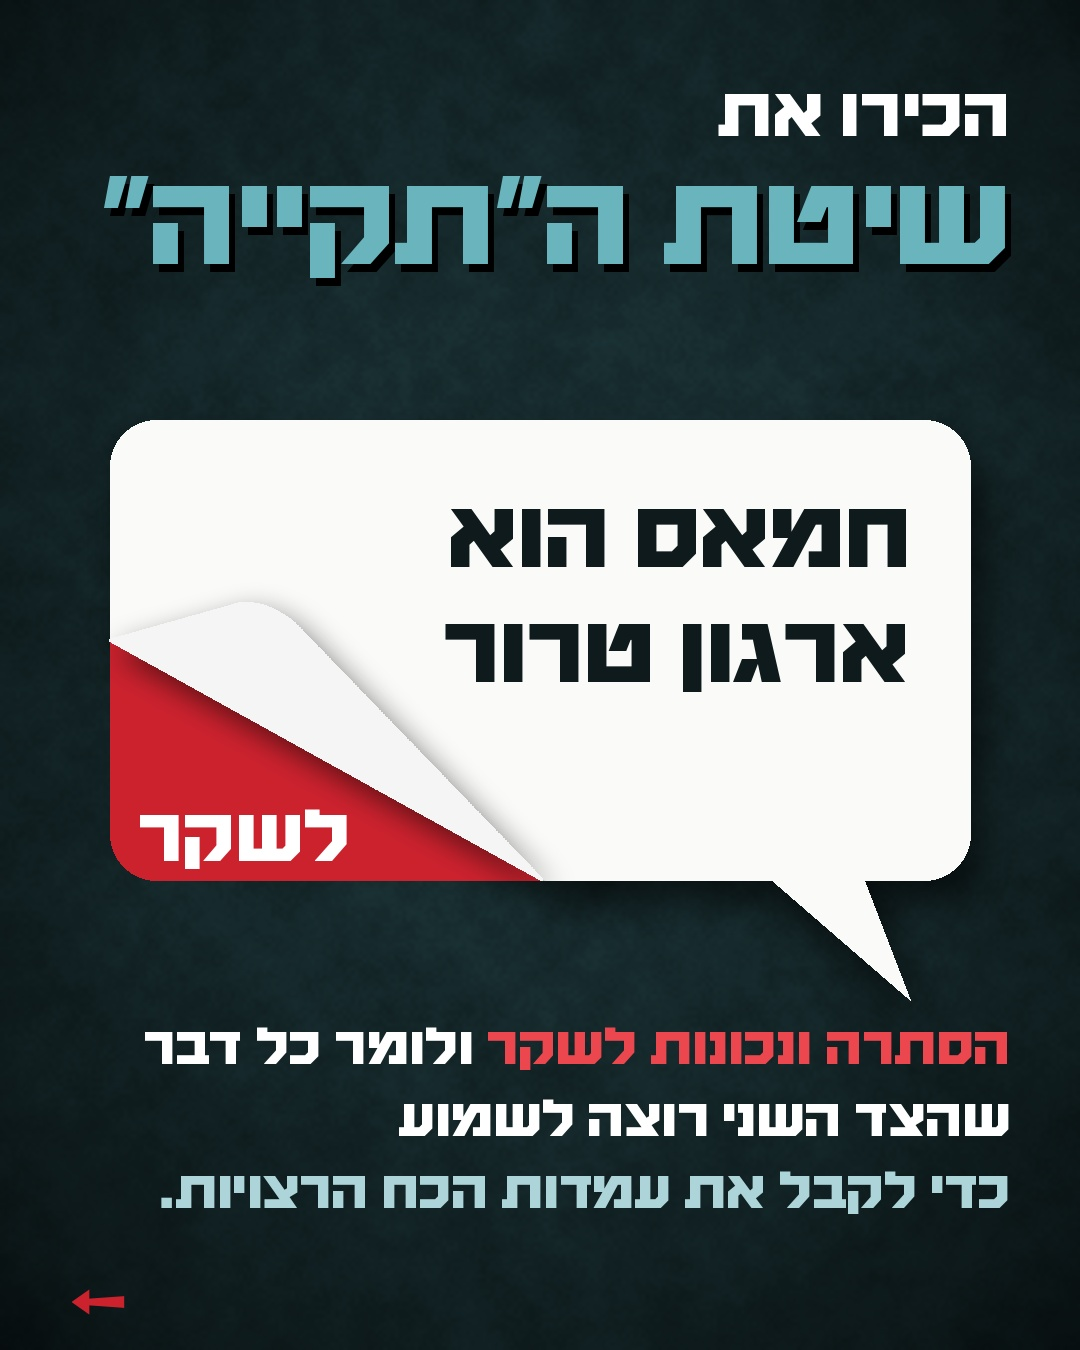
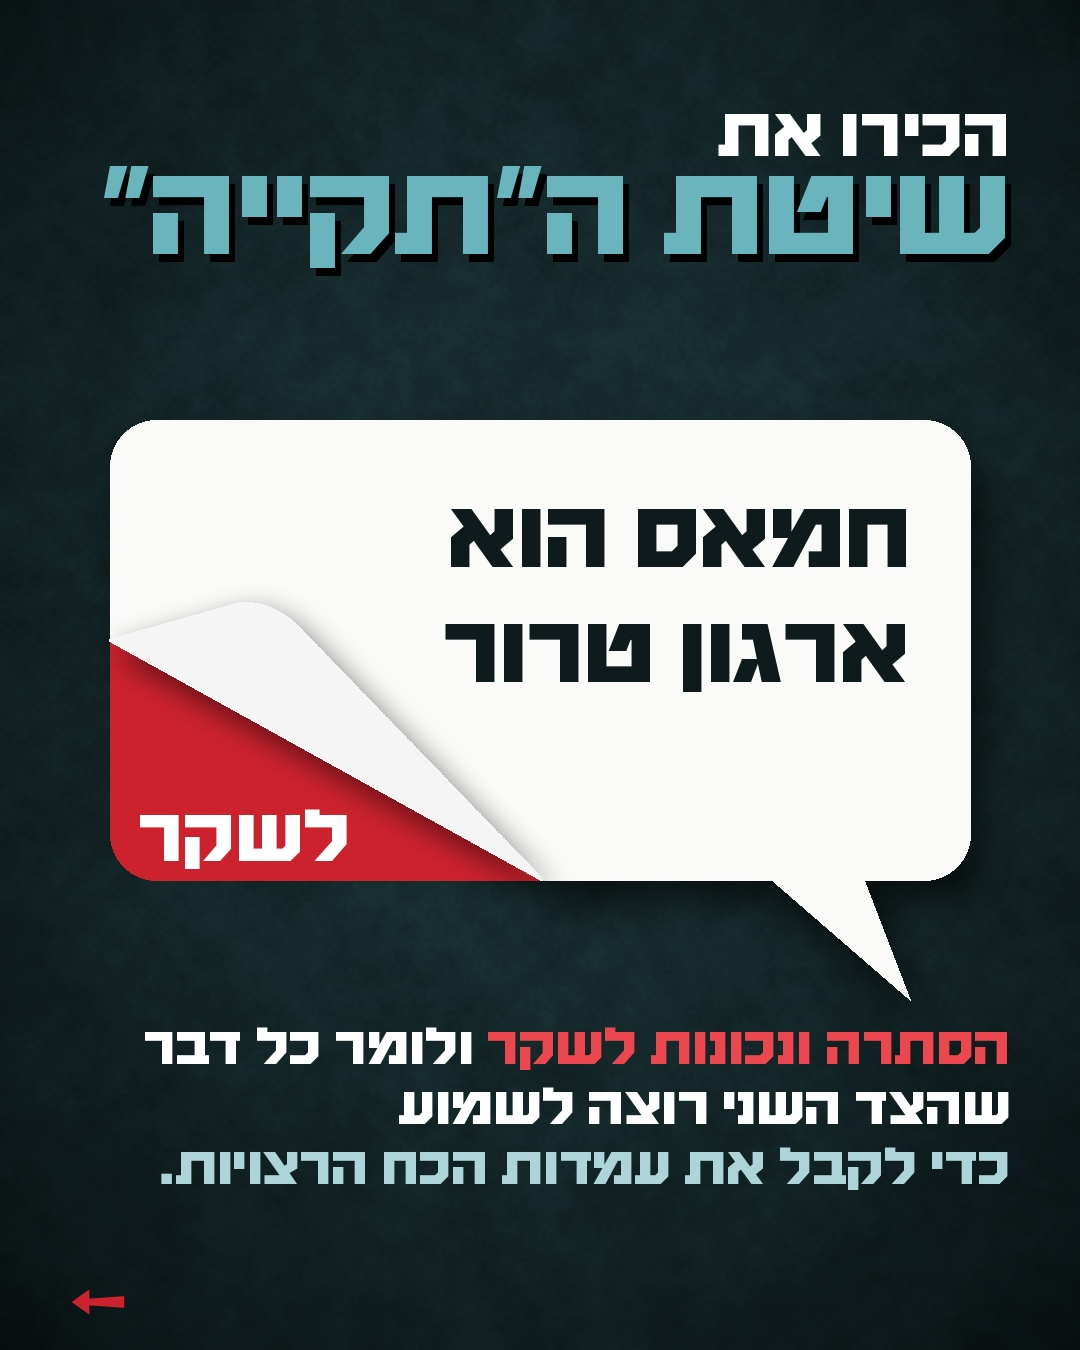
Abbas carousel: tighter line spacing
Claude-Session: https://claude.ai/code/session_01RS3QK6pAd3YhyAuXZSJjH1

diff --git a/content-kit/hatzionut-hadatit/2026-11-post-abbas-taqiyya/make_s1.py b/content-kit/hatzionut-hadatit/2026-11-post-abbas-taqiyya/make_s1.py
@@ -50,11 +50,11 @@ card = torn(clip, 5).rotate(-2.2, resample=Image.BICUBIC, expand=True)
 
 im = concrete().convert('RGBA'); d = ImageDraw.Draw(im); R = W - 70
 # kicker + giant ironic word
-d.text((R, 95), 'מי שיתרשם מההכרזה', font=F(76), fill='white', anchor='ra', direction='rtl')
+d.text((R, 118), 'מי שיתרשם מההכרזה', font=F(76), fill='white', anchor='ra', direction='rtl')
 fz = F(205); t = 'ה״דרמטית״'
 while d.textlength(t, font=fz, direction='rtl') > W - 150: fz = F(fz.size - 5)
-d.text((R + 6, 190 + 8), t, font=fz, fill=(0, 0, 0, 160), anchor='ra', direction='rtl')
-d.text((R, 190), t, font=fz, fill=RED, anchor='ra', direction='rtl')
+d.text((R + 6, 172 + 8), t, font=fz, fill=(0, 0, 0, 160), anchor='ra', direction='rtl')
+d.text((R, 172), t, font=fz, fill=RED, anchor='ra', direction='rtl')
 im.alpha_composite(card, ((W - card.width) // 2, 410))
 # bottom punch
 fb = F(84); t = 'פשוט לא מכיר את עבאס'
@@ -62,6 +62,6 @@ while d.textlength(t, font=fb, direction='rtl') > W - 220: fb = F(fb.size - 3)
 bb = d.textbbox((0, 0), t, font=fb, anchor='ls', direction='rtl'); tw, ih = bb[2] - bb[0], bb[3] - bb[1]
 y = 1005; d.rectangle((R - tw - 52, y, R + 6, y + ih + 50), fill=LT)
 d.text((R - 24, y + 25 - bb[1]), t, font=fb, fill=NIGHT, anchor='rs', direction='rtl')
-d.text((R, y + ih + 80), 'ואת השיטה של האחים המוסלמים', font=F(52), fill='white', anchor='ra', direction='rtl')
+d.text((R, y + ih + 60), 'ואת השיטה של האחים המוסלמים', font=F(52), fill='white', anchor='ra', direction='rtl')
 d.text((70, H - 48), '←', font=F(60), fill=RED, anchor='lm')
 im.convert('RGB').save(HERE + '/slide1.jpg', quality=95); print('ok')

diff --git a/content-kit/hatzionut-hadatit/2026-11-post-abbas-taqiyya/make_s2.py b/content-kit/hatzionut-hadatit/2026-11-post-abbas-taqiyya/make_s2.py
@@ -20,11 +20,11 @@ def concrete():
 
 im = concrete().convert('RGBA'); d = ImageDraw.Draw(im); R = W - 70
 # header
-d.text((R, 80), 'הכירו את', font=F(70), fill='white', anchor='ra', direction='rtl')
+d.text((R, 100), 'הכירו את', font=F(70), fill='white', anchor='ra', direction='rtl')
 fh = F(150); t = 'שיטת ה״תקייה״'
 while d.textlength(t, font=fh, direction='rtl') > W - 150: fh = F(fh.size - 4)
-d.text((R + 6, 160 + 8), t, font=fh, fill=(0, 0, 0, 160), anchor='ra', direction='rtl')
-d.text((R, 160), t, font=fh, fill=LT, anchor='ra', direction='rtl')
+d.text((R + 6, 150 + 8), t, font=fh, fill=(0, 0, 0, 160), anchor='ra', direction='rtl')
+d.text((R, 150), t, font=fh, fill=LT, anchor='ra', direction='rtl')
 
 # ---- bubble geometry ----
 BX0, BY0, BX1, BY1 = 110, 420, 970, 880
@@ -80,6 +80,6 @@ for line in segs:
     x = R
     for txt, col in line:
         d.text((x, y), txt, font=fl, fill=col, anchor='ra', direction='rtl'); x -= d.textlength(txt + ' ', font=fl, direction='rtl')
-    y += 72
+    y += 60
 d.text((70, H - 48), '←', font=F(60), fill=RED, anchor='lm')
 im.convert('RGB').save(HERE + '/slide2.jpg', quality=95); print('ok')

diff --git a/content-kit/hatzionut-hadatit/2026-11-post-abbas-taqiyya/make_s3.py b/content-kit/hatzionut-hadatit/2026-11-post-abbas-taqiyya/make_s3.py
@@ -21,12 +21,12 @@ fade = np.clip((np.arange(H) - (PH - 300)) / 300, 0, 1) ** 1.1
 im = Image.composite(Image.new('RGB', (W, H), NIGHT), im, Image.fromarray((fade[:, None] * 255).repeat(W, 1).astype(np.uint8)))
 d = ImageDraw.Draw(im); R = W - 70
 # headline
-y = 790
+y = 805
 f1 = F(88); t1 = 'עבאס רוצה להיכנס לממשלה'
 while d.textlength(t1, font=f1, direction='rtl') > W - 150: f1 = F(f1.size - 3)
 d.text((R + 4, y + 5), t1, font=f1, fill=(0, 0, 0), anchor='ra', direction='rtl')
 d.text((R, y), t1, font=f1, fill='white', anchor='ra', direction='rtl')
-y += 120
+y += 98
 f2 = F(88); a2, b2 = 'כדי', 'לחסל את ישראל מבפנים'
 wa = d.textlength(a2 + ' ', font=f2, direction='rtl')
 while wa + d.textlength(b2, font=f2, direction='rtl') > W - 150: f2 = F(f2.size - 3); wa = d.textlength(a2 + ' ', font=f2, direction='rtl')
